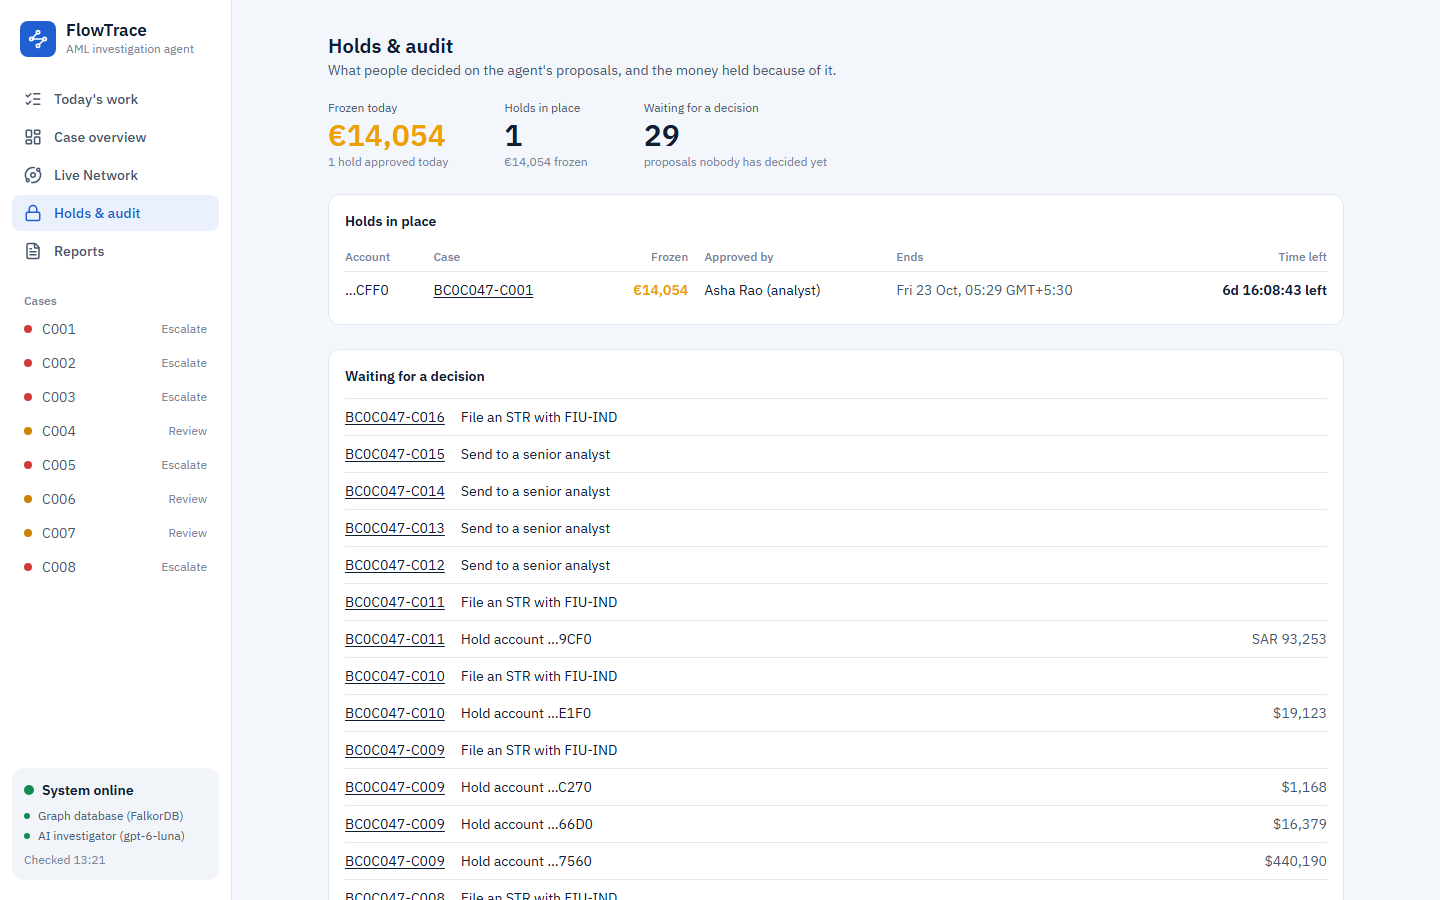
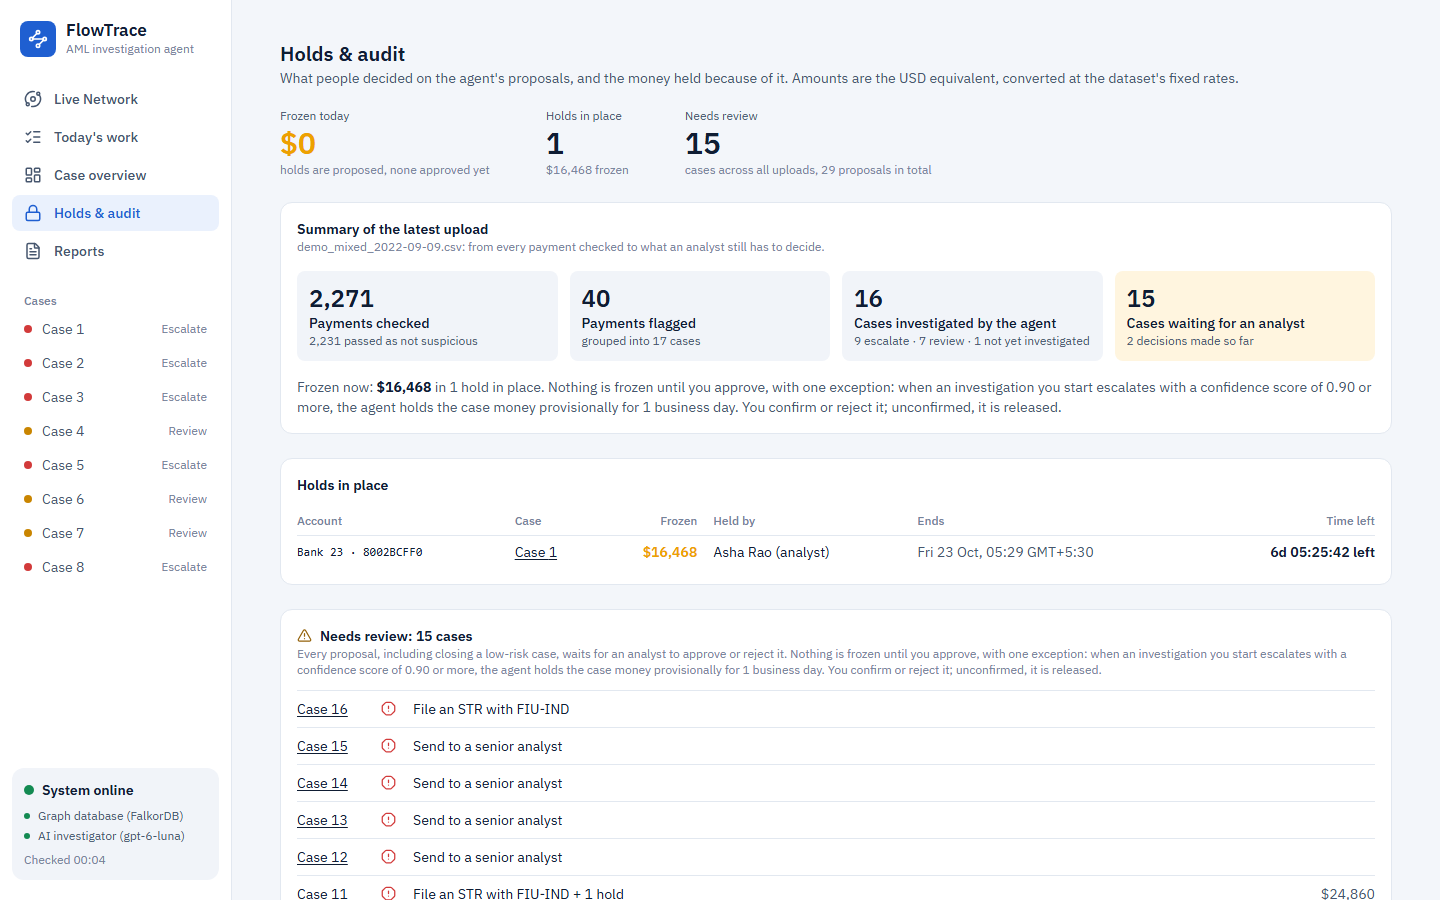
README: Sep 9 agent eval, scoring variants, auto-hold measurement; new screenshots
- Results and Evaluation: the Sep 9 eval slice under the chosen scoring (fixed / heuristic / llm),
  and a Scoring variants table (A / B / C on Sep 7-8, the winner and the others on Sep 9), with
  the decision rule and the commands to reproduce on a scratch graph.
- Auto-hold: exactly when it acts (a person-started investigation, ESCALATE at a confidence score
  of 0.9+, approvals configured, nothing decided before), provisional for 1 business day, and its
  measurement (Sep 7-8: 11 of 11 cases laundering, $0 wrongly frozen; Sep 9: 6 of 6, $0).
- USD equivalent with each payment's own currency, crime types on escalated cases only, hold panel
  and confidence wording, new tests listed; eval.compare now cleans up after itself.
- Hold planner tables unchanged: re-run under the chosen scoring, every figure matched.
- The hold promise names the exception precisely: an investigation you start.

diff --git a/frontend/src/lib/holds.ts b/frontend/src/lib/holds.ts
@@ -5,7 +5,7 @@ import type { AutoHoldPolicy } from './api'
 export function holdPromise(p?: AutoHoldPolicy | null): string {
   if (!p?.active) return 'Nothing is frozen until you approve.'
   const days = p.confirm_business_days ?? 1
-  return `Nothing is frozen until you approve, with one exception: when an investigation escalates with a confidence `
+  return `Nothing is frozen until you approve, with one exception: when an investigation you start escalates with a confidence `
     + `score of ${(p.min_confidence ?? 0).toFixed(2)} or more, the agent holds the case money provisionally for `
     + `${days} business day${days === 1 ? '' : 's'}. You confirm or reject it; unconfirmed, it is released.`
 }

diff --git a/frontend/src/lib/holds.test.ts b/frontend/src/lib/holds.test.ts
@@ -10,7 +10,7 @@ describe('holdPromise', () => {
   })
   it('states exactly when auto-hold acts', () => {
     const s = holdPromise({ active: true, min_confidence: 0.9, confirm_business_days: 1 })
-    expect(s).toContain('confidence score of 0.90 or more')
+    expect(s).toContain('an investigation you start escalates with a confidence score of 0.90 or more')
     expect(s).toContain('provisionally for 1 business day.')
     expect(s).toContain('unconfirmed, it is released')
   })

diff --git a/backend/flowtrace/agent/registry.py b/backend/flowtrace/agent/registry.py
@@ -4,8 +4,8 @@
   read tools     get_case, list_cases, plan_holds: read-only (GRAPH.RO_QUERY and saved files).
   propose_action the only write tool: creates PROPOSED actions. Nothing here can approve; only a person can,
                  through the API the UI calls.
-  auto_hold      not a tool (the MCP server never reaches it): after an investigation finishes, the API's act
-                 step may place proposed holds PROVISIONALLY (actions.auto_hold, needs APPROVER_TOKEN). A person
+  auto_hold      not a tool (the MCP server never reaches it): after an investigation a person started, the API's
+                 act step may place proposed holds PROVISIONALLY (actions.auto_hold, needs APPROVER_TOKEN). A person
                  confirms or rejects each one; unconfirmed, it is released after 1 business day. So nothing is
                  frozen until a person approves, except that provisional hold.
 
@@ -165,8 +165,8 @@ def call(name: str, args: dict, ctx: CaseContext | None = None, origin: str = "a
 
 def act(case_id: str, auto: bool = False, approvals_on: bool = False) -> dict:
     """The agent's act step after an investigation: plan the holds, then propose them and the case-level
-    action. A person decides each one. auto=True (only when an investigation has just finished, never a manual
-    re-plan) lets the auto-hold policy place the holds provisionally; approvals_on says whether the API has an
+    action. A person decides each one. auto=True (only when an investigation a person started has just finished,
+    never a background run or a manual re-plan) lets the auto-hold policy place the holds provisionally; approvals_on says whether the API has an
     APPROVER_TOKEN, so a person can confirm or release them."""
     plan = call("plan_holds", {"case_id": case_id})
     store.save_plan(case_id, plan)

diff --git a/README.md b/README.md
@@ -26,12 +26,13 @@ All screenshots are from the real app on the curated sample day (`demo_mixed_202
 - **Four figures:** the amount involved, accounts connected, red flags found, and the investigation status (Queued, Investigating, Escalate, Review or Close).
 - **Transaction flow**, left to right. Each account's role comes from the flow itself: no money in = sender, no money out = destination, otherwise intermediary. Red arrows are suspicious payments, amber arrows carried case money into a proposed hold, and the amber ring marks the hold (dashed = proposed, solid = approved).
 - **Key findings:** one row per red flag, with a confidence badge from the evidence weight (thresholds in `config.yaml`, `ui.evidence_confidence`). Under them, the legitimate explanations the agent found.
+- **Verdict card:** risk and confidence as High / Medium / Low, at the thresholds in `config.yaml` (`disposition.escalate_at`, `close_below`, `confidence_labels`). The confidence score measures distance from a decision line; it is not a probability, so no percentage is shown. Escalated cases also show a *possible crime type (indicative, not a finding)*.
 
-Amounts are in the data's own currency ($, €, SAR, R$…).
+Every amount is the **USD equivalent** (the dataset's payments in other currencies are converted at its fixed rates), and each payment row also shows the payment in its own currency (EUR, SAR, BRL…).
 
 ![Case overview](docs/screenshots/case-overview.png)
 
-**4. The agent acts: recommended next step.** After an escalation, the agent proposes which accounts to hold. A hold freezes only the case money traced into an account, never its whole balance. The headline is the money frozen now. The bar splits the case money into frozen now, still in the trail, and already gone (cash, crypto, another currency or a merchant). Every hold, and the case decision (here: file an STR), waits for a person.
+**4. The agent acts: recommended next step.** After an escalation, the agent proposes which accounts to hold. A hold freezes only the case money traced into an account, never its whole balance. The headline is the money frozen now. The bar splits the case money into frozen now, still in the trail, and already gone (cash, crypto, another currency or a merchant). Every hold, and the case decision (here: file an STR), waits for a person. Nothing starts ticked, and holds and the case decision are approved or rejected separately. A proposed hold shows when it would end before anyone approves it.
 
 ![Proposed holds on a case](docs/screenshots/holds.png)
 
@@ -43,7 +44,7 @@ Amounts are in the data's own currency ($, €, SAR, R$…).
 
 ![Investigation streaming live](docs/screenshots/investigation.png)
 
-**7. Holds & audit.** Money frozen today, holds in place with live countdowns, proposals waiting for a decision, and the append-only audit log. Each amount is in the currency of its money trail.
+**7. Holds & audit.** Money frozen today, holds in place with live countdowns, proposals waiting for a decision, and the append-only audit log, filtered by what needs you. Amounts are the USD equivalent.
 
 ![Holds and audit log](docs/screenshots/results.png)
 
@@ -68,7 +69,7 @@ Amounts are in the data's own currency ($, €, SAR, R$…).
 | Case funnel, **full test day** (Sep 9, 654,467 payments, 0.08% laundering) | **280 flagged → 186 cases**, largest 9 accounts; **15 of the top 15 cases are laundering**; of 121 schemes active that day, 18 are in the top 15, 49 in the top 50, 93 in some case | `python -m flowtrace.eval.fullday --day 2022-09-09`: offline, every payment, no graph upload, detectors not run (see *How flagging works*). Validation days: 168 and 176 cases, 22 of 117 and 22 of 116 schemes in the top 15 |
 | Case funnel, **full test day** (Sep 10, 208,325 payments, 0.21% laundering) | **262 flagged → 180 cases**, largest 7 accounts; **15 of the top 15 cases are laundering**; of 124 schemes active that day, 18 are in the top 15, 51 in the top 50, 86 in some case | `python -m flowtrace.eval.fullday --day 2022-09-10`: same offline method as Sep 9 |
 | Case funnel, **curated demo sample** (Sep 9, 2,271 payments, 2.3% laundering, ~29× a real day) | 40 flagged → 17 cases, largest 6 accounts; 14 of the top 15 cases are laundering; 18 of 26 schemes in the top 15 | `python -m flowtrace.eval.funnel ../data/samples/demo_mixed_2022-09-09.csv`. The sample is hand-picked around known schemes for the demo, so it reads far better than a real day |
-| Adaptive agent vs fixed workflow | `python -m flowtrace.eval.compare` writes `data/models/agent_eval.json` | Same alerts, same query budget; see *Evaluation* |
+| Adaptive agent vs fixed workflow, **Sep 9 eval slice** (40 cases: 21 laundering, 19 legitimate) | Escalate recall **1.00 / 1.00 / 0.67** and precision **0.58 / 0.57 / 0.74** (fixed / heuristic / llm); legitimate cases escalated 15 / 16 / 5 of 19; no laundering case closed; 0.5% of the LLM report's claims unsupported | Same alerts, same query budget, final test after the scoring was chosen on Sep 7–8; see *Evaluation* |
 | Hold planner, **Sep 9 eval slice** (top 40 ranked cases), laundering cases (21) | Holds **freeze $5.59M** of the $5.67M of case money still in the trail; 61% of the 41 holds are on accounts that really launder, against a **64% base rate**; on legitimate cases the proposals would wrongly freeze $98.3M if approved | `python -m flowtrace.eval.holds --sample eval/day_slice_2022-09-09.csv --cases 40`, with dispositions from the rule-based investigation. Full table and caveats in *Acting on a case* |
 
 For comparison, published results on HI-Small are 62.9 F1 for GFP+LightGBM and 68.2 for Multi-PNA, on a different split that includes the Sep 11–18 tail. We exclude that tail (see *Data*).
@@ -181,13 +182,20 @@ The trail is small (a few hundred accounts at most), so the planner reads it wit
 
 All thresholds and weights live in [`config.yaml`](config.yaml).
 
-**Crime type.** The dataset labels laundering yes/no only. The "possible predicate crime" shown in reports maps the observed shape to the crimes the data generator models (extortion, loan sharking, gambling, prostitution, kidnapping, robbery, embezzlement, drugs, smuggling). It is a **hypothesis**, labelled as such, and is not a measured prediction.
+**Crime type.** The dataset labels laundering yes/no only. The "possible predicate crime" maps the observed shape to the crimes the data generator models (extortion, loan sharking, gambling, prostitution, kidnapping, robbery, embezzlement, drugs, smuggling), plus the few indicators with a well-supported link (`crime_by_indicator`: money returning to its sender -> embezzlement, money forwarded straight on -> money mule). Splits, cash or crypto, many sources and convergence are left out: they are common in normal accounts. It is a **hypothesis**, labelled *indicative*, shown for escalated cases only, and is not a measured prediction.
 
 ---
 
 ## Acting on a case: holds a person approves
 
-An investigation ends with a recommendation. Then the agent acts: it plans which accounts to hold and proposes those holds, along with the case decision. **The agent can only propose. Only a person can approve or reject, and they must give a reason.**
+An investigation ends with a recommendation. Then the agent acts: it plans which accounts to hold and proposes those holds, along with the case decision. **The agent proposes. Only a person can approve or reject, and they must give a reason. Nothing is frozen until a person approves, with one exception, the auto-hold below.**
+
+**Auto-hold** (`actions.auto_hold`, on by default; decided by measurement, see *Measurement*). It acts only when **all** of these hold:
+- `actions.auto_hold.enabled` is on **and** the API server has an `APPROVER_TOKEN` (so a person can confirm or release);
+- an investigation **a person started** has just finished (never a background prefetch or re-queue, never a manual re-plan, never MCP) and recommends **ESCALATE with a confidence score of 0.9 or more** (`min_confidence`; a score, not a probability);
+- the planner found a hold, no hold of the case was ever decided (approved, rejected, released or expired), and no analyst gave the case a verdict, so a release or a CLOSE is never undone.
+
+The hold is **PROVISIONAL**, audited as `agent (auto-hold)`. A person confirms it (it then runs its normal term) or rejects it (released now). If nobody confirms it within **1 business day** (`confirm_business_days`) it is released automatically. It never files an STR or escalates. The UI states this exception wherever it says "Nothing is frozen until you approve", and only when it is active on the server.
 
 How FlowTrace holds money, and what it is based on:
 - **A hold freezes an amount, never a whole account.** It is a lien on the case money traced into an account. This follows the RBI [draft KYC Amendment Directions, Sep 2026](https://rbi.org.in/scripts/BS_PressReleaseDisplay.aspx?prid=63587), which allow a debit hold on the suspected amount for at most 60 days. Indian High Courts have also limited liens to the disputed amount.
@@ -285,7 +293,7 @@ How the measurement works:
 - **Fixed in advance.** The config values (cap, minimum, expiry) were set before the first run. The two later method changes were decided after seeing Sep 9:
   - holds only after ESCALATE;
   - a lien on the traced amount instead of the account's balance.
-- **Currency.** Amounts are in US dollars.
+- **Currency.** Amounts are the US dollar equivalent.
 
 | | Sep 9 slice: 21 laundering cases | Curated sample: 17 cases (16 laundering) |
 |---|---|---|
@@ -307,6 +315,17 @@ To reproduce, run `python -m flowtrace.eval.holds --sample eval/day_slice_2022-0
 - Each run writes `data/models/holds_eval_*.json`.
 - The planner only reads.
 - The slice batch is uploaded and then deleted. The demo batch is left alone if the UI already uploaded it.
+
+**Auto-hold, measured** (`flowtrace.eval.variants`, heuristic dispositions, the rule written before measuring: default on only with precision ≥ 90% on Sep 7–8 and no legitimate case with more than $1M frozen):
+
+| | Validation, Sep 7–8 (80 cases) | Final test, Sep 9 (40 cases) |
+|---|---|---|
+| Cases it would auto-hold | 11, all laundering (100%) | 6, all laundering (100%) |
+| Of their holds, on accounts that really launder | 60% | 69% |
+| Money it would freeze | $1,078,269 | $4,958,624 |
+| **Money wrongly frozen** (legitimate cases) | **$0** | **$0** |
+
+So auto-hold is on by default. Read it with care: 11 of 11 still leaves a 95% lower bound of about 72% precision, and the scoring first pushed (variant B below) would have auto-frozen **$77.3M** on one legitimate Sep 9 case (C024).
 
 What the numbers say:
 - **The holds freeze most of the case money still in the trail** (98.6% and 86.6%), with at most 3 holds per case.
@@ -362,9 +381,8 @@ python -m flowtrace.graph.smoke --write      # also checks upload idempotency an
 python -m flowtrace.eval.tune                # calibration, detector precision, hub degree from Sep 7-8 (paste into config.yaml)
 python -m flowtrace.eval.fullday --day 2022-09-09   # honest full-day funnel, offline (a full day is ~61 MB, over the 50 MB upload limit)
 
-# 4. Agent evaluation (optional, uses the LLM). It uploads the sample batch into the graph;
-#    afterwards delete that batch or reload with: python -m flowtrace.graph.load --replace
-python -m flowtrace.eval.compare --cases 25
+# 4. Agent evaluation (optional, uses the LLM). It uploads the sample batch and deletes it afterwards
+python -m flowtrace.eval.compare --sample eval/day_slice_2022-09-09.csv --cases 40
 
 # 5. Hold planner measurement (no LLM; uploads the slice and deletes it afterwards)
 python -m flowtrace.eval.holds --sample eval/day_slice_2022-09-09.csv --cases 40
@@ -433,7 +451,47 @@ Read the results with care:
 python -m flowtrace.eval.slice --day 2022-09-09 --pos 20 --neg 20      # writes data/samples/eval/day_slice_2022-09-09.csv
 python -m flowtrace.eval.compare --sample eval/day_slice_2022-09-09.csv --cases 40
 ```
-`compare` uploads the slice into the graph; delete its batch afterwards (see `DELETE_BATCH` in `graph/queries.py`).
+
+**Sep 9 eval slice, top 40 cases (21 laundering, 19 legitimate), dev scoring (variant A below), gpt-6-luna:**
+
+| | fixed | heuristic | llm |
+|---|---|---|---|
+| Escalate recall (laundering escalated) | 1.00 (21/21) | 1.00 (21/21) | 0.67 (14/21) |
+| Laundering kept open (escalate or review) | 1.00 | 1.00 | 1.00 |
+| Escalate precision | 0.58 | 0.57 | 0.74 |
+| Legitimate cases escalated | 15 of 19 | 16 of 19 | 5 of 19 |
+| Legitimate cases auto-closed | 0 | 0 | 0 |
+| Evidence coverage | 0.22 | 0.30 | 0.30 |
+| Unsupported-claim rate | 0 | 0 | 0.005 |
+| Cypher queries / seconds per case | 14.7 / 0.02 | 15.2 / 0.02 | 17.2 / 30.2 |
+
+The LLM sends the 7 laundering cases it does not escalate to REVIEW, so a person still sees them; it escalates far fewer legitimate cases. No LLM step fell back to the rules and no report fell back to the template.
+
+**Scoring variants.** A teammate proposed weighting each indicator by its measured laundering lift. The variants were compared by a rule written down before measuring ([decision rules](docs/superpowers/specs/2026-10-16-simple-report-review-design.md)): keep escalate recall within 0.02 of A for both free policies, then escalate the fewest legitimate cases, then freeze the least money on them. Validation is Sep 7 and Sep 8 slices built the same way (80 cases), each replayed on a scratch graph holding history up to that day only; the same investigations are re-scored under each variant (`flowtrace.eval.variants`).
+- **A**: dev scoring, every indicator at its tool weight.
+- **B**: as first pushed: payment-level lift from Sep 1–8 (overlapping the validation days), CYCLE and CASH_OR_CRYPTO_EXIT borrowing other codes' lifts, a "≥ 500 payments" rule, and an escalator switched off when its lift was weak.
+- **C**: B fixed: each code measured on its own definition on Sep 1–6 (`flowtrace.ml.signal_rates`), used only with 30+ laundering examples, shrunk toward 1 (10 pseudo-examples), never switching off an escalator.
+
+| Variant | Sep 7–8 recall, fixed / heuristic | Sep 7–8 legitimate escalated (of 38 + 38) | Sep 9 recall, fixed / heuristic / llm | Sep 9 legitimate escalated (of 19), fixed / heuristic / llm |
+|---|---|---|---|---|
+| **A (winner)** | 0.83 / 0.88 | **62** | 1.00 / 1.00 / 0.67 | 15 / 16 / 5 |
+| B | 1.00 / 1.00 | 76 | 1.00 / 0.95 / 0.81 | 19 / 19 / 9 |
+| C | 0.98 / 1.00 | 65 | 1.00 / 0.95 / 0.67 | 18 / 18 / 6 |
+
+All three keep recall, and A escalates the fewest legitimate cases, so `disposition.measured_weights.enabled` stays off. The fixed measurement still drives the case page's *Strong sign* / *Common in normal accounts* tags. Sep 9 was run once, after the choice, and nothing was changed after seeing it; B and C on Sep 9 are for comparison only. On every variant the planned holds on the validation days' legitimate cases come to about $1.31B if a person approved them all, mostly a few very large flagged payments; that is why every hold except the provisional auto-hold waits for a person.
+
+```bash
+# validation days: a scratch graph with history up to the day, so the main graph is never touched
+GRAPH_NAME=flowtrace_val python -m flowtrace.graph.load --until 2022-09-07 --replace
+GRAPH_NAME=flowtrace_val python -m flowtrace.eval.variants --sample eval/day_slice_2022-09-07.csv --cases 40
+GRAPH_NAME=flowtrace_val python -m flowtrace.graph.load --until 2022-09-08 --replace
+GRAPH_NAME=flowtrace_val python -m flowtrace.eval.variants --sample eval/day_slice_2022-09-08.csv --cases 40
+python -m flowtrace.eval.variants --decide variants_eval_day_slice_2022-09-07.json variants_eval_day_slice_2022-09-08.json
+# final test, once, on the main graph (uploads the slice and deletes it afterwards)
+python -m flowtrace.eval.variants --sample eval/day_slice_2022-09-09.csv --cases 40 --policies fixed,heuristic,llm
+```
+Then delete the scratch graph (`GRAPH.DELETE flowtrace_val` in redis-cli).
+`compare` uploads the slice into the graph and deletes its batch afterwards (unless the UI had already uploaded it).
 
 ## Tests
 
@@ -463,8 +521,10 @@ Action-layer tests:
 - **API**:
   - plan, approve/reject, error codes and audit;
   - a decision without the right approver token, or with no approver name, is refused.
-- **Case page** (`tests/test_case_view.py`): account roles from the flow (a pure loop is all intermediaries), history payments left out, flagged vs followed payments, a hold account downstream of the case drawn amber, the account cap, confidence and priority thresholds from config, hourly vs daily timeline, an uninvestigated case, currency fallback, the STR draft and its endpoints.
-- **Frontend** (`frontend/src/lib/*.test.ts`, vitest): the layered flow layout (chains, loops, fan-out, crossings), the case stepper from real states, and the STR Markdown reader.
+- **Case page** (`tests/test_case_view.py`): account roles from the flow (a pure loop is all intermediaries), history payments left out, flagged vs followed payments, a hold account downstream of the case drawn amber, the account cap, confidence and priority thresholds from config, risk and confidence as High/Medium/Low from config (never a percentage), crime types only on escalated cases, each payment's own currency next to the USD equivalent, hourly vs daily timeline, an uninvestigated case, the STR draft (evidence IDs on every point, provisional holds) and its endpoints.
+- **Auto-hold** (`test_actions_service.py`, `test_registry.py`, `test_api_actions.py`): a provisional hold is audited as the agent and counts toward the cap; a person confirms it (normal term) or rejects it (released); unconfirmed, it is released after 1 business day; CLOSE and RELEASE end it; it never fires when switched off, without an approver token, on a manual re-plan, below the confidence bar, after a decided hold or after an analyst verdict; the UI is told exactly when it can act.
+- **Signal measurement and scoring variants** (`test_signal_rates.py`, `test_variants.py`): each evidence code measured by its own definition (pass-through pairs, fast onward, loops with their own time rules, equal splits, convergence, cash exit), the 30-example rule and shrinkage, an escalator never switched off, a missing rates file failing loudly, variant B reproduced as first pushed, and the pre-written decision rule.
+- **Frontend** (`frontend/src/lib/*.test.ts`, vitest): the layered flow layout (chains, loops, fan-out, crossings), the case stepper from real states, the STR Markdown reader, the hold promise text, business-day hold ends and payments in their own currency.
 
 ## AI assistance
 
